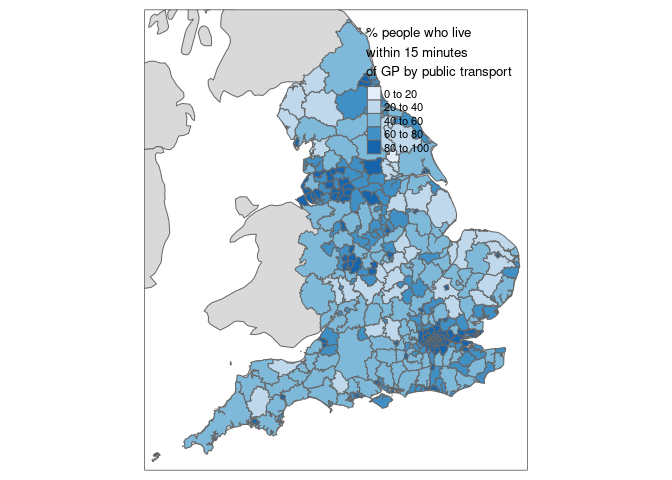
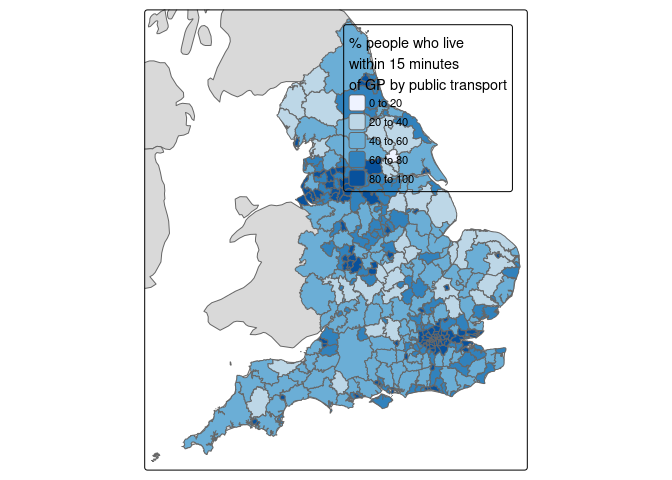
Minor update to pkg

diff --git a/README.md b/README.md
@@ -1,16 +1,12 @@
 
 <!-- badges: start -->
-
 <!-- [![R-CMD-check](https://github.com/datasciencecampus/jtstats-r/actions/workflows/R-CMD-check.yaml/badge.svg)](https://github.com/datasciencecampus/jtstats-r/actions/workflows/R-CMD-check.yaml) -->
-
 <!-- badges: end -->
-
 <!-- README.md is generated from README.Rmd. Please edit that file -->
 
 # jtstats
 
 <!-- badges: start -->
-
 <!-- badges: end -->
 
 The goal of jtstats is to enable easy import of the Department for
@@ -222,6 +218,11 @@ We can make a slightly more sophisticated plot with `tmap` as follows:
 
 ``` r
 library(tmap)
+#> 
+#> Attaching package: 'tmap'
+#> The following object is masked from 'package:datasets':
+#> 
+#>     rivers
 uk = rnaturalearth::ne_countries(country = "United Kingdom", returnclass = "sf", scale = "medium")
 ie = rnaturalearth::ne_countries(country = "Ireland", returnclass = "sf", scale = "medium")
 
@@ -233,6 +234,7 @@ tm_shape(uk, bbox = sf::st_bbox(jts_geo)) +
   tm_shape(jts_geo) +
   tm_polygons("GPPT15pct", palette = "Blues", title = "% people who live\nwithin 15 minutes\nof GP by public transport") +
   tm_layout(legend.position = c("right", "top"))
+#> tm_polygons: Deprecated tmap v3 code detected. Code translated to v4
 ```
 
 <img src="man/figures/README-unnamed-chunk-7-1.png" width="100%" />
